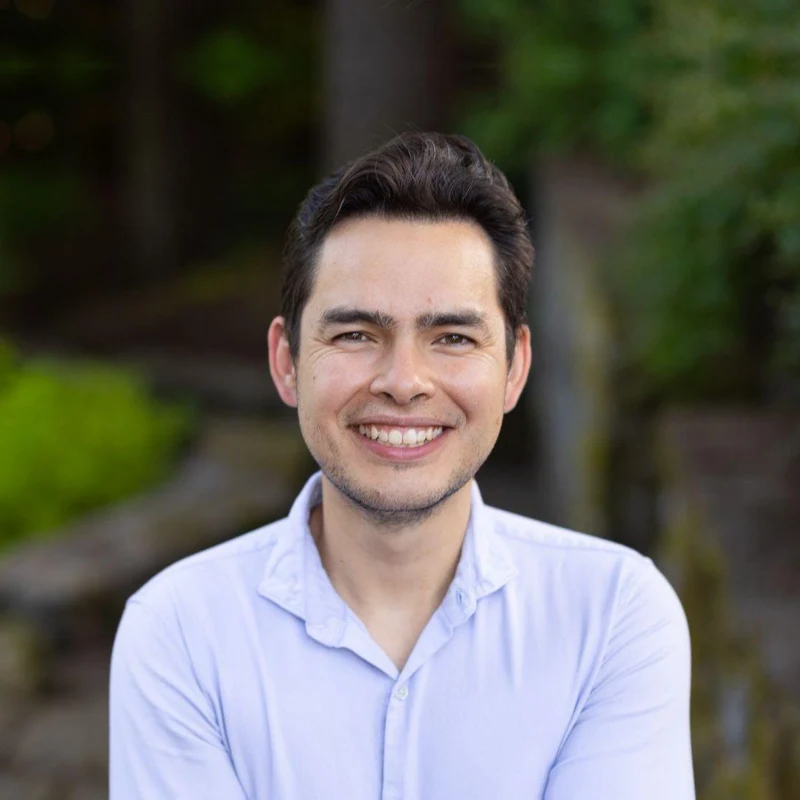
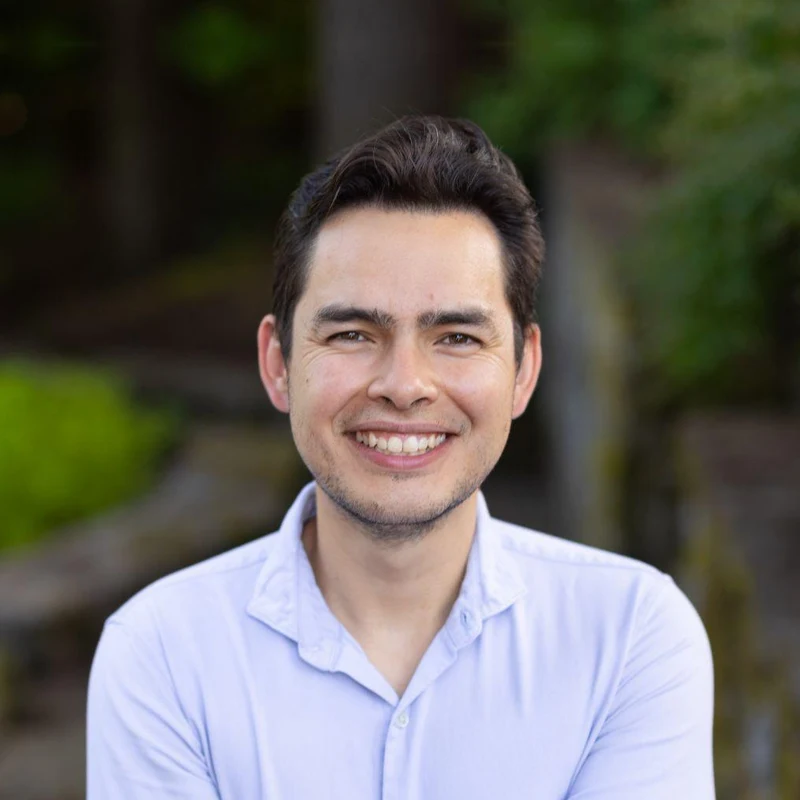
Brighten Michael’s backdrop and tighten Berk’s portrait crop

diff --git a/about/index.html b/about/index.html
@@ -172,7 +172,7 @@
             </article>
 
             <article class="leader-card">
-              <img class="leader-card__photo" src="/assets/images/berk-centered.webp" alt="Portrait of Berk Vogelheim" loading="lazy" decoding="async" />
+              <img class="leader-card__photo" src="/assets/images/berk-centered.webp?v=closer" alt="Portrait of Berk Vogelheim" loading="lazy" decoding="async" />
               <div>
                 <p class="leader-card__name">Berk Vogelheim</p>
                 <span class="leader-card__title">Principal</span>
@@ -182,7 +182,7 @@
             </article>
 
             <article class="leader-card">
-              <img class="leader-card__photo" src="/assets/images/michael-centered.webp?v=side-window" alt="Portrait of Michael Stewart" loading="lazy" decoding="async" />
+              <img class="leader-card__photo" src="/assets/images/michael-centered.webp?v=daylight" alt="Portrait of Michael Stewart" loading="lazy" decoding="async" />
               <div>
                 <p class="leader-card__name">Michael Stewart</p>
                 <span class="leader-card__title">Principal</span>
